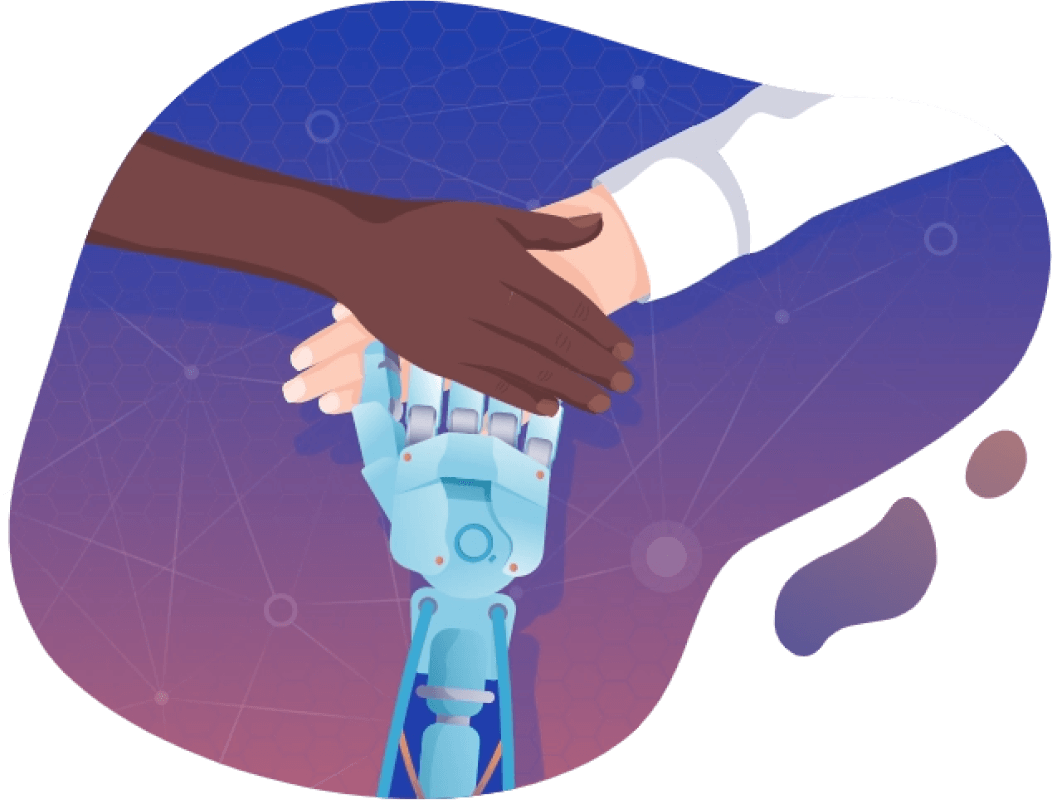
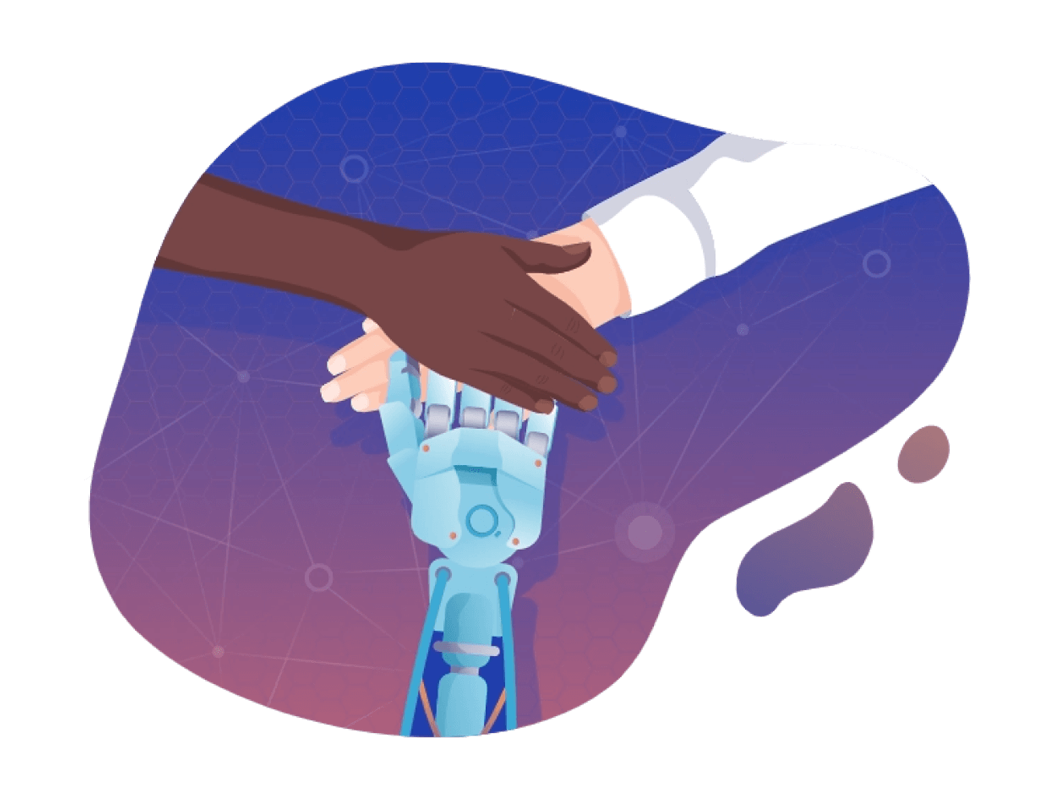
Content display fixes

diff --git a/pages/projects/newrelic.js b/pages/projects/newrelic.js
@@ -53,7 +53,7 @@ export default function NewRelic(props) {
         <link rel="preload" href="/assets/newrelic-isomockups-4.png" as="image" />
         <link rel="preload" href="/assets/newrelic-figma-workflow.png" as="image" />
       </Head>
-      <div className={`mb-48 `}>
+      <div className={`mb-48 bg-[#22222E]`} >
         <ProjectCover
           title="Product Design"
           subtitle="New Relic"
@@ -72,7 +72,7 @@ export default function NewRelic(props) {
           images={[newrelicIsomockups1]}
           texts={[
             "Entity foundations",
-            "Unifying and consolidating the storytelling of entities as an artifact which emits and/or receives data represented visually as an hexagon around the whole product. The high density view or honeycomb aims to show in a more visual way your entities and stand out the most relevant metrics and issues that can affect your system entity health. Flattering the cognitive load for non advanced users introducing the concept of entity and system health to make it more human readable for those entities which are non performing properly or have deviations, having security issues, alarms alerting, and much more. Converging different sources that can affect it in just one concept.",
+            "Unifying and consolidating the storytelling of entities as an artifact which emits and/or receives data represented visually as an hexagon around the whole product.<br/><br/>The high density view or honeycomb aims to show in a more visual way your entities and stand out the most relevant metrics and issues that can affect your system entity health.<br/><br/>Flattering the cognitive load for non advanced users introducing the concept of entity and system health to make it more human readable for those entities which are non performing properly or have deviations, having security issues, alarms alerting, and much more. Converging different sources that can affect it in just one concept.",
           ]}
         />
         <ProjectBlock
@@ -84,7 +84,7 @@ export default function NewRelic(props) {
           images={[newrelicIsomockups2]}
           texts={[
             "Navigation revamp",
-            "As a part of the team who revamped the new product navigation I was working on the initial research, early concepts and interactive probe of concepts which ended up conforming the new left navigation which was launched together with the new company rebranding. The challenge was to find the most scalable approach for the plenty of verticals and solutions that the product has and be useful not only for advanced users but also for newbie ones and let customisation for those who need to make their own space based on their user profiling, SRE, developers, DevOps…",
+            "As a part of the team who revamped the new product navigation I was working on the initial research, early concepts and interactive probe of concepts which ended up conforming the new left navigation which was launched together with the new company rebranding.<br/><br/>The challenge was to find the most scalable approach for the plenty of verticals and solutions that the product has and be useful not only for advanced users but also for newbie ones and let customisation for those who need to make their own space based on their user profiling, SRE, developers, DevOps…",
           ]}
         />
         <ProjectBlock
@@ -96,7 +96,7 @@ export default function NewRelic(props) {
           images={[newrelicIsomockups3]}
           texts={[
             "Homepage concept",
-            "Design lead for the new product homepage in order to guide the users on what to do next based on user profiling, user maturity and data ingested.This project was kicked of making a design sprint were we realized that users need to be hand holded when they land into the product instead of overwhelming them with paygates. MPVs were tested and validated with user interviews. It was a crossteam endeavor where overstability, platform and growth teams were coordinated to obtain a scalable solution which could cover the different user needs on different user states and journeys, aiming for first ingest data, then use the different capabilities and last improve the observability coverage of the users.",
+            "Design lead for the new product homepage in order to guide the users on what to do next based on user profiling, user maturity and data ingested.This project was kicked of making a design sprint were we realized that users need to be hand holded when they land into the product instead of overwhelming them with paygates. MPVs were tested and validated with user interviews.<br/><br/>It was a crossteam endeavor where overstability, platform and growth teams were coordinated to obtain a scalable solution which could cover the different user needs on different user states and journeys, aiming for first ingest data, then use the different capabilities and last improve the observability coverage of the users.",
           ]}
         />
         <ProjectBlock
@@ -108,7 +108,7 @@ export default function NewRelic(props) {
           images={[newrelicIsomockups4]}
           texts={[
             "All capabilities consolidation",
-            "New Relic has plenty of capabilities in order to troubleshoot, monitor and observe your system. In addition to this there are some curated custom and official applications which offer extra features as a part of the platform programmability and users can make their own ones. This project was aiming to merge all the things that the product can do in just one place to show it at a glance. The challenge was to do it covering the needs of the different user journeys and being useful and intuitive for all of them.",
+            "New Relic has plenty of capabilities in order to troubleshoot, monitor and observe your system. In addition to this there are some curated custom and official applications which offer extra features as a part of the platform programmability and users can make their own ones.<br/><br/>This project was aiming to merge all the things that the product can do in just one place to show it at a glance. The challenge was to do it covering the needs of the different user journeys and being useful and intuitive for all of them.",
           ]}
         />
          <ProjectBlock
@@ -120,7 +120,7 @@ export default function NewRelic(props) {
           images={[newrelicFigmaWorkflow]}
           texts={[
             "Figma standards",
-            "Driving and setting up the Figma guidelines in order to get a common way to work and use the tool for all the product designers, content designers and ux researchers with a feature centric and scalable approach. Going from file and cover templates, layer naming conventions, file structure location, control version and branching, documentation, flows, handover and collaboration… to automatisation like centralised source of truth connected to Confluence, layer naming linting or synchronised documentation.",
+            "Driving and setting up the Figma guidelines in order to get a common way to work and use the tool for all the product designers, content designers and ux researchers with a feature centric and scalable approach.<br/><br/>Going from file and cover templates, layer naming conventions, file structure location, control version and branching, documentation, flows, handover and collaboration… to automatisation like centralised source of truth connected to Confluence, layer naming linting or synchronised documentation.",
           ]}
         />
       </div>

diff --git a/components/projects/projectBlock.js b/components/projects/projectBlock.js
@@ -16,9 +16,9 @@ export default function ProjectBlock(props) {
   const animateUI = () => {};
   return (
     <div
-      className={`relative flex py-10
-      ${props.pushTop ? "pt-28" : " "} 
-      ${props.pushBottom ? "pb-28" : " "}
+      className={`relative flex 
+      ${props.pushTop ? "pt-8 md:pt-28" : " "} 
+      ${props.pushBottom ? "pb-20 md:pb-28" : " "}
       ${props.offsetLeft ? "justify-start" : ""}
       ${props.offsetRight ? "justify-end" : ""}
       ${!props.offsetLeft && !props.offsetRight ? "justify-center " : " "}
@@ -34,7 +34,7 @@ export default function ProjectBlock(props) {
           case 1:
             return (
               <div
-                className={`max-w-5xl p-8 xl:p-0`}
+                className={`max-w-5xl p-8 xl:p-8`}
               >
                 <h3 className="text-lg reveal">{props.texts[0]}</h3>
                 <div className="grid grid-cols-1 lg:grid-cols-2 gap-4 py-5 reveal">
@@ -43,7 +43,7 @@ export default function ProjectBlock(props) {
                 </div>
                 {props.images && (
                   <Image
-                    className="mx-auto relative z-10 top-24 -mt-16 reveal"
+                    className="mx-auto max-w-xl w-full relative z-10 top-24 -mt-16 reveal"
                     alt="Image project 1"
                     src={props.images[0]}
                   />
@@ -53,7 +53,7 @@ export default function ProjectBlock(props) {
           case 2:
             // Image only
             return (
-              <div className="p-4 md:p-8 xl:p-0 w-full">
+              <div className="max-w-5xl py-8 md:py-12 xl:py-10 w-full">
                 <Image
                   className="mx-auto reveal"
                   alt="Image project 1"
@@ -65,7 +65,7 @@ export default function ProjectBlock(props) {
             // Title          // Title
             // Text + Image   // Image + Text
             return (
-              <div className="max-w-5xl -mb-16 p-8 xl:p-0 lol ">
+              <div className="max-w-5xl p-8 xl:p-0 lol ">
                 <div className="grid grid-cols-1 lg:grid-cols-2 gap-4 py-5 reveal">
                   <div
                     className={`flex justify-center  flex-col ${
@@ -89,7 +89,7 @@ export default function ProjectBlock(props) {
           case 4:
             // Only title + text centered
             return (
-              <div className="max-w-lg p-8 xl:p-0 reveal">
+              <div className="max-w-lg p-12 xl:p-14 reveal">
                 <h3 className="text-lg text-center py-5">{props.texts[0]}</h3>
                 <p className="text-base text-center font-extralight">
                   {props.texts[1]}
@@ -100,14 +100,14 @@ export default function ProjectBlock(props) {
             // Title                           // Title
             // Text + Image (offseted right)   // Image (offseted left) + Text
             return (
-              <div className="w-1/2">
+              <div className="md:w-[48%]">
                   <Image
-                    className="h-auto w-full"
+                    className="h-auto w-full pb-8 md:pb-0"
                     alt="Image project 1"
                     src={props.images[0]}
                   />
-                <div className="md:absolute md:top-1/2 md:left-1/2 md:-translate-x-1/2 md:-translate-y-1/2 w-full max-w-5xl">
-                  <div className="grid grid-cols-1 md:grid-cols-2 gap-4">
+                <div className="md:absolute md:top-1/2 md:left-1/2 md:-translate-x-1/2 md:-translate-y-1/2 px-8 md:px-0 w-full max-w-5xl">
+                  <div className="grid grid-cols-1 md:grid-cols-2 gap-0 md:gap-4">
                     {/* Empty column */}
 
                     <div
@@ -116,8 +116,7 @@ export default function ProjectBlock(props) {
                       }`}
                     >
                       <h3 className="text-lg py-5">{props.texts[0]}</h3>
-                      <p className="text-base font-extralight">
-                        {props.texts[1]}
+                      <p className="text-base font-extralight" dangerouslySetInnerHTML={{ __html: props.texts[1] }}>
                       </p>
                     </div>
                   </div>

diff --git a/pages/projects/goaigua.js b/pages/projects/goaigua.js
@@ -53,7 +53,7 @@ export default function GoAigua(props) {
         <link rel="preload" href="/assets/goaigua-mockups-3.png" as="image" />
         <link rel="preload" href="/assets/goaigua-mockups-4.png" as="image" />
       </Head>
-      <div className={`mb-48`}>
+      <div className={`mb-48 bg-[#22222E]`}>
         <ProjectCover
           title="Product Design"
           subtitle="GoAigua"

diff --git a/pages/projects/qatium.js b/pages/projects/qatium.js
@@ -62,7 +62,7 @@ export default function Qatium(props) {
         <link rel="preload" href="/assets/qatium-ds-components.png" as="image" />
         <link rel="preload" href="/assets/qatium-roadmap.png" as="image" />
       </Head>
-      <div className={`mb-48 `}>
+      <div className={`mb-48 bg-[#22222E]`}>
         <ProjectCover
           title="Product Design"
           subtitle="Qatium"

diff --git a/pages/projects/figmap.js b/pages/projects/figmap.js
@@ -56,7 +56,7 @@ export default function Figmap(props) {
         <link rel="preload" href="/assets/figmap-icon-installs.png" as="image" />
         <link rel="preload" href="/assets/figmap-icon-mau.png" as="image" />
       </Head>
-      <div className={`mb-48`}>
+      <div className={`mb-48 bg-[#22222E]`}>
         <ProjectCover
           title="Figma Plugin"
           subtitle="Figmap"
